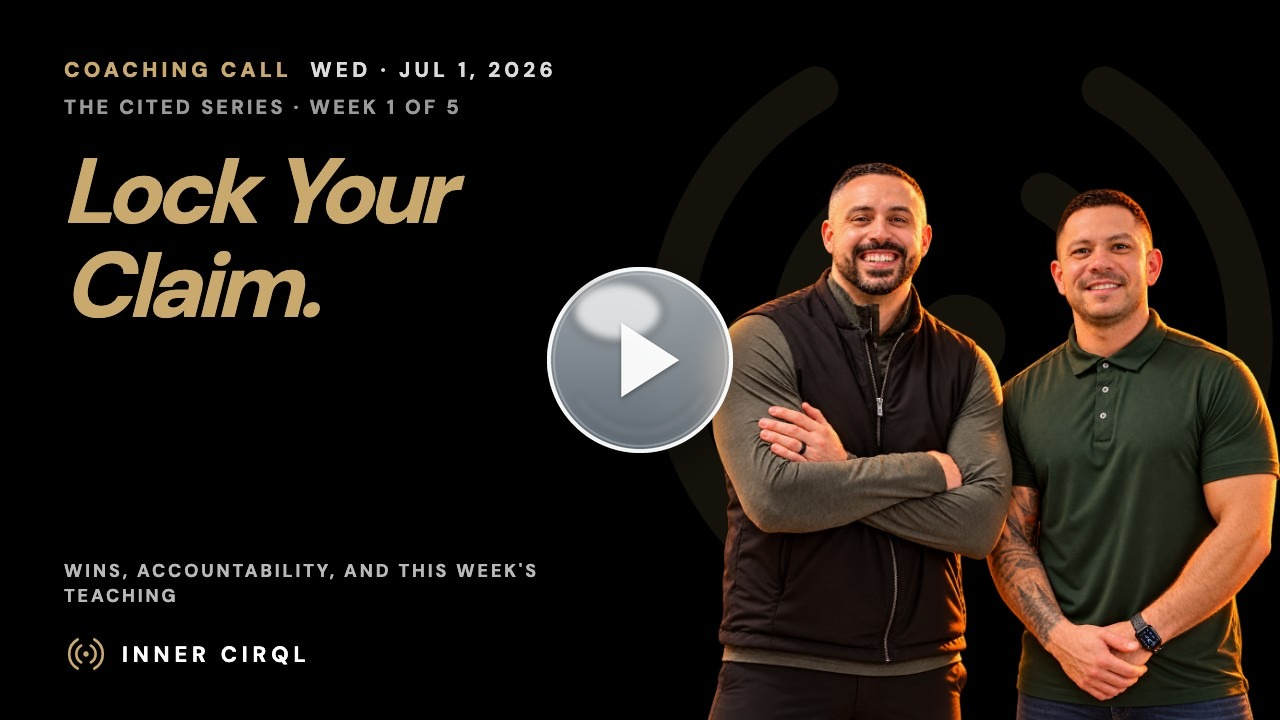
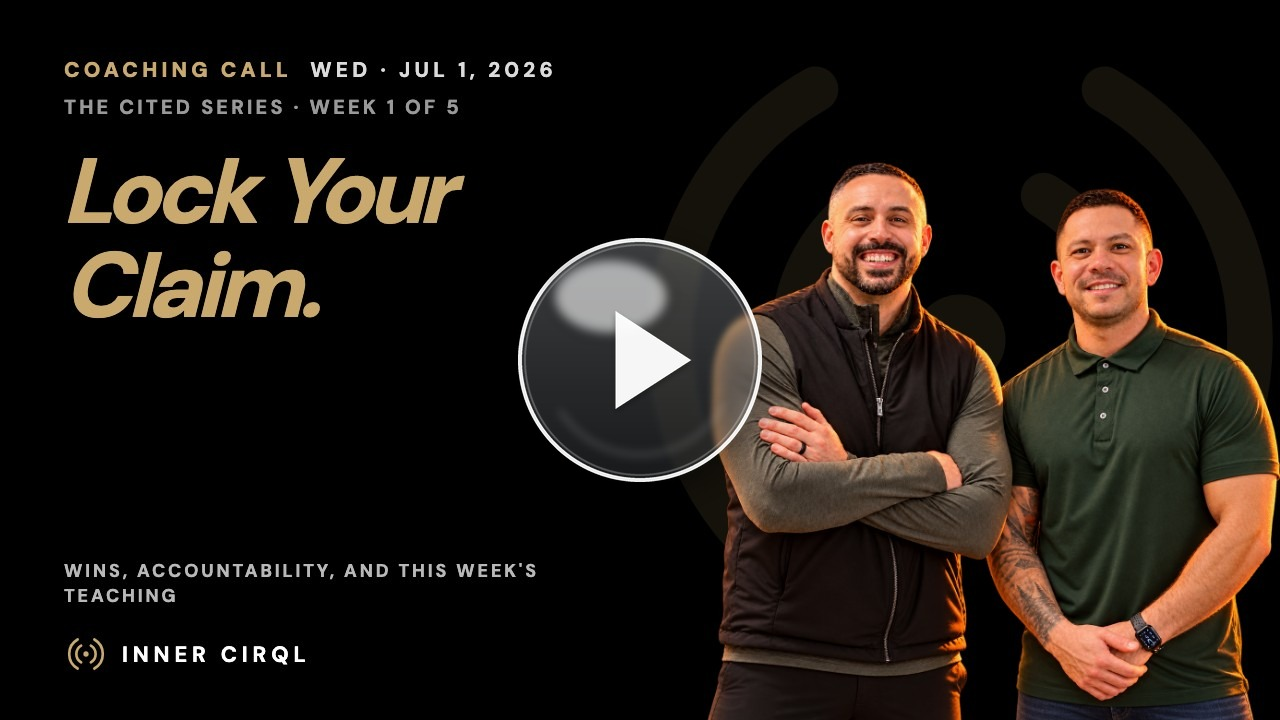
Training: retitle Jul 1 coaching call (The CITED Series · Week 1 · Claim.) + thumbnail

Changed region(s): [[0.4062, 0.3056, 0.5938, 0.6722]]

diff --git a/training/index.html b/training/index.html
@@ -94,6 +94,26 @@ window.LIBRARY = {
   ],
   "items": [
     {
+      "id": "v-2026-07-01",
+      "date": "2026-07-01",
+      "dateLabel": "July 1, 2026",
+      "series": "cited",
+      "week": 1,
+      "name": "Claim.",
+      "title": "The CITED Series · Week 1 · Claim.",
+      "headline": [
+        "Lock Your",
+        "Claim."
+      ],
+      "sub": "The CITED Series · Week 1 of 5",
+      "desc": "Wins, accountability, and the week's teaching segment, edited replay.",
+      "href": "https://coach.theinnercirql.com/2026-07-01/",
+      "pdf": null,
+      "slides": null,
+      "embed": "https://www.youtube.com/embed/pFWM0IjAvOE?rel=0&modestbranding=1",
+      "thumb": "/assets/thumbs/jul-1-call.jpg?v=29920144"
+    },
+    {
       "id": "v-2026-06-24",
       "date": "2026-06-24",
       "dateLabel": "June 24, 2026",
@@ -252,26 +272,6 @@ window.LIBRARY = {
       "slides": null,
       "embed": "https://www.youtube.com/embed/tA8jYmD1dc8?rel=0&modestbranding=1",
       "thumb": "/assets/thumbs/jul-8-call.jpg?v=29920138"
-    },
-    {
-      "id": "v-2026-07-01",
-      "date": "2026-07-01",
-      "dateLabel": "July 1, 2026",
-      "series": "cited",
-      "week": 1,
-      "name": "Claim.",
-      "title": "The CITED Series · Week 1 · Claim.",
-      "headline": [
-        "Lock Your",
-        "Claim."
-      ],
-      "sub": "The CITED Series · Week 1 of 5",
-      "desc": "Wins, accountability, and the week's teaching segment, edited replay.",
-      "href": "https://coach.theinnercirql.com/2026-07-01/",
-      "pdf": null,
-      "slides": null,
-      "embed": "https://www.youtube.com/embed/pFWM0IjAvOE?rel=0&modestbranding=1",
-      "thumb": "/assets/thumbs/jul-1-call.jpg?v=29920137"
     },
     {
       "id": "v-2026-11-18",
